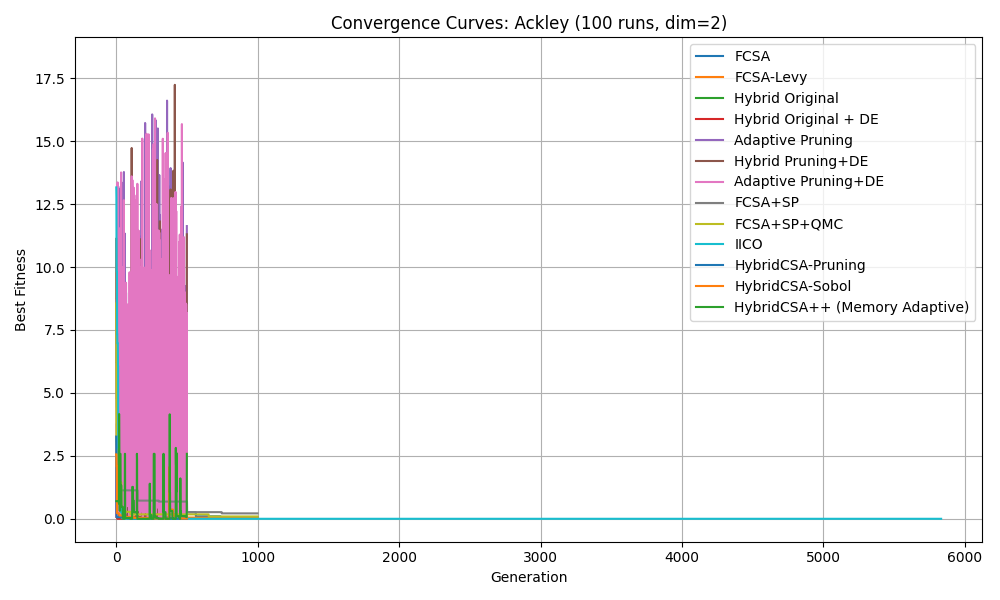
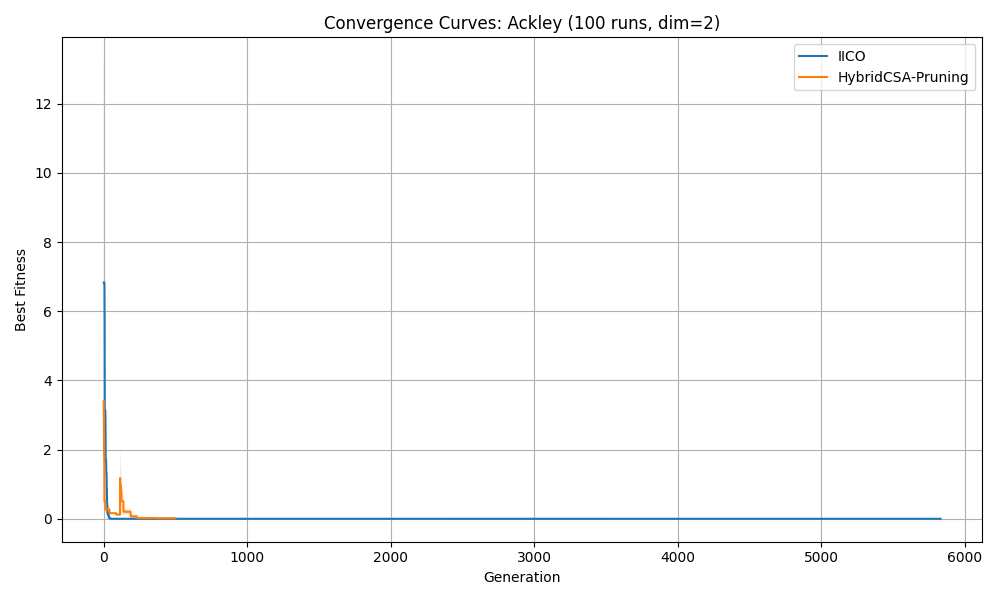
ready for expirement 2

diff --git a/codes/run_all_fcsa.py b/codes/run_all_fcsa.py
@@ -9,15 +9,15 @@ from fscsa_sp_qmc import FCSASPQMC
 from fcsa_levy import fcsa_hybrid_levy
 from hybrid_csa_chaos_sobol_δx_memory_adaptive_pruning import HybridCSAPlus
 # Algorithm runners: (name, runner function)
-def run_fcsa_levy(obj, bounds):
-    x_best, f_best, info = fcsa_hybrid_levy(obj, bounds)
+def run_fcsa_levy(obj, bounds, seed=None):
+    x_best, f_best, info = fcsa_hybrid_levy(obj, bounds, seed=seed)
     if 'history' in info:
         return np.array(info['history'])
     else:
         return np.array([f_best])
 
-def run_hybrid_memory_adaptive(obj, bounds):
-    opt = HybridCSAPlus(obj, bounds)
+def run_hybrid_memory_adaptive(obj, bounds, seed=None):
+    opt = HybridCSAPlus(obj, bounds, seed=seed)
     x_best, f_best, info = opt.minimize()
     # info['history'] may be a list of (fitness, x), so extract fitness if needed
     hist = info.get('history', [f_best])
@@ -51,8 +51,8 @@ benchmarks = [
 ]
 
 # Algorithm runners: (name, runner function)
-def run_fcsa(obj, bounds):
-    opt = FCSA(obj, bounds)
+def run_fcsa(obj, bounds, seed=None):
+    opt = FCSA(obj, bounds, seed=seed)
     x_best, f_best, info = opt.optimize()
     # If info['history'] is available, return it for plotting, else just f_best
     if 'history' in info:
@@ -60,81 +60,81 @@ def run_fcsa(obj, bounds):
     else:
         return np.array([f_best])
 
-def run_fcsa_sp(obj, bounds):
-    opt = FCSASP(obj, bounds)
+def run_fcsa_sp(obj, bounds, seed=None):
+    opt = FCSASP(obj, bounds, seed=seed)
     x_best, f_best, info = opt.optimize()
     if 'history' in info:
         return np.array(info['history'])
     else:
         return np.array([f_best])
 
-def run_fcsa_sp_qmc(obj, bounds):
-    opt = FCSASPQMC(obj, bounds)
+def run_fcsa_sp_qmc(obj, bounds, seed=None):
+    opt = FCSASPQMC(obj, bounds, seed=seed)
     x_best, f_best, info = opt.optimize()
     if 'history' in info:
         return np.array(info['history'])
     else:
         return np.array([f_best])
 
-def run_hybrid_pruning_adaptive(obj, bounds):
-    opt = HybridCSA_adaptive(obj, bounds)
+def run_hybrid_pruning_adaptive(obj, bounds, seed=None):
+    opt = HybridCSA_adaptive(obj, bounds, seed=seed)
     x_best, f_best, info = opt.minimize()
     if 'history' in info:
         return np.array(info['history'])
     else:
         return np.array([f_best])
 
-def run_hybrid_pruning_de_version(obj, bounds):
-    opt = HybridCSA_pruning_de_version(obj, bounds)
+def run_hybrid_pruning_de_version(obj, bounds, seed=None):
+    opt = HybridCSA_pruning_de_version(obj, bounds, seed=seed)
     x_best, f_best, info = opt.minimize()
     if 'history' in info:
         return np.array(info['history'])
     else:
         return np.array([f_best])
 
-def run_hybrid_pruning_de_version_adaptive(obj, bounds):
-    opt = HybridCSA_pruning_de_version_adaptive(obj, bounds)
+def run_hybrid_pruning_de_version_adaptive(obj, bounds, seed=None):
+    opt = HybridCSA_pruning_de_version_adaptive(obj, bounds, seed=seed)
     x_best, f_best, info = opt.minimize()
     if 'history' in info:
         return np.array(info['history'])
     else:
         return np.array([f_best])
 
-def run_hybrid_original_de(obj, bounds):
-    opt = HybridCSAOriginal_de(obj, bounds)
+def run_hybrid_original_de(obj, bounds, seed=None):
+    opt = HybridCSAOriginal_de(obj, bounds, seed=seed)
     x_best, f_best, info = opt.minimize()
     if 'history' in info:
         return np.array(info['history'])
     else:
         return np.array([f_best])
 
-def run_iico(obj, bounds, dim, max_evals, pop_size, bench_func=None):
+def run_iico(obj, bounds, dim, max_evals, pop_size, bench_func=None, seed=None):
     def iico_obj(x):
         return obj(np.array(x))
     def iico_fun(x):
         y, lb, ub = bench_func(x)
         return y, lb, ub
-    best_fitness_list, gbest, info = IICO_func(iico_fun, max_evals, pop_size, dim)
+    best_fitness_list, gbest, info = IICO_func(iico_fun, max_evals, pop_size, dim, seed=seed)
     return np.array(info['history'])
 
-def run_hybrid_pruning(obj, bounds):
-    opt = HybridCSA_pruning(obj, bounds)
+def run_hybrid_pruning(obj, bounds, seed=None):
+    opt = HybridCSA_pruning(obj, bounds, seed=seed)
     x_best, f_best, info = opt.minimize()
     if 'history' in info:
         return np.array(info['history'])
     else:
         return np.array([f_best])
 
-def run_hybrid_pruning_sobol(obj, bounds):
-    opt = HybridCSA_sobol(obj, bounds)
+def run_hybrid_pruning_sobol(obj, bounds, seed=None):
+    opt = HybridCSA_sobol(obj, bounds, seed=seed)
     x_best, f_best, info = opt.minimize()
     if 'history' in info:
         return np.array(info['history'])
     else:
         return np.array([f_best])
 
-def run_hybrid_original(obj, bounds):
-    opt = HybridCSAOriginal(obj, bounds)
+def run_hybrid_original(obj, bounds, seed=None):
+    opt = HybridCSAOriginal(obj, bounds, seed=seed)
     x_best, f_best, info = opt.minimize()
     if 'history' in info:
         return np.array(info['history'])
@@ -142,19 +142,19 @@ def run_hybrid_original(obj, bounds):
         return np.array([f_best])
 
 algorithms = [
-    ("FCSA", run_fcsa),
-    ("FCSA-Levy", run_fcsa_levy),
-    ("Hybrid Original", run_hybrid_original),
-    ("Hybrid Original + DE", run_hybrid_original_de),
-    ("Adaptive Pruning", run_hybrid_pruning_adaptive),
-    ("Hybrid Pruning+DE", run_hybrid_pruning_de_version),
-    ("Adaptive Pruning+DE", run_hybrid_pruning_de_version_adaptive),
-    ("FCSA+SP", run_fcsa_sp),
-    ("FCSA+SP+QMC", run_fcsa_sp_qmc),
+    # ("FCSA", run_fcsa),
+    # ("FCSA-Levy", run_fcsa_levy),
+    # ("Hybrid Original", run_hybrid_original),
+    # ("Hybrid Original + DE", run_hybrid_original_de),
+    # ("Adaptive Pruning", run_hybrid_pruning_adaptive),
+    # ("Hybrid Pruning+DE", run_hybrid_pruning_de_version),
+    # ("Adaptive Pruning+DE", run_hybrid_pruning_de_version_adaptive),
+    # ("FCSA+SP", run_fcsa_sp),
+    # ("FCSA+SP+QMC", run_fcsa_sp_qmc),
     ("IICO", run_iico),
     ("HybridCSA-Pruning", run_hybrid_pruning),
-    ("HybridCSA-Sobol", run_hybrid_pruning_sobol),
-    ("HybridCSA++ (Memory Adaptive)", run_hybrid_memory_adaptive),
+    # ("HybridCSA-Sobol", run_hybrid_pruning_sobol),
+    # ("HybridCSA++ (Memory Adaptive)", run_hybrid_memory_adaptive),
 ]
 
 
@@ -178,7 +178,7 @@ def run_all_dims():
     import matplotlib.pyplot as plt
     import os
     dims = [2, 50, 100]
-    n_runs = 100
+    n_runs = 2
     for dim in dims:
         # Folder and log for this dimension
         fig_dir = os.path.join(os.path.dirname(__file__), f'../fig/dim_{dim}')
@@ -206,9 +206,9 @@ def run_all_dims():
                         if alg_name == "IICO":
                             max_evals = 350_000
                             pop_size = 60
-                            history = runner(obj, bounds, bench_dim, max_evals, pop_size, func)
+                            history = runner(obj, bounds, bench_dim, max_evals, pop_size, func, seed=run)
                         else:
-                            history = runner(obj, bounds)
+                            history = runner(obj, bounds, seed=run)
                         histories.append(np.array(history))
                     histories = pad_histories(histories)
                     mean_curve = np.mean(histories, axis=0)

diff --git a/codes/IICO.py b/codes/IICO.py
@@ -17,7 +17,12 @@ from openpyxl import load_workbook
 from benchmark import get_function_by_name
 
 
-def iico(fun, max_FEs, n, dim, max_stagnation=3):
+def iico(fun, max_FEs, n, dim, max_stagnation=3, seed=None):
+    if seed is not None:
+        import random
+        import numpy as np
+        random.seed(seed)
+        np.random.seed(seed)
     _, lb, ub = fun([random.random() for _ in range(dim)])
 
     pop = [[0. for _ in range(dim)] for _ in range(n)]

diff --git a/codes/hybrid_csa_chaos_sobol_δx_memory_adaptive_pruning.py b/codes/hybrid_csa_chaos_sobol_δx_memory_adaptive_pruning.py
@@ -98,7 +98,7 @@ class HybridCSAPlus:
         N: int = 60,
         n_select: int = 15,
         n_clones: int = 5,
-        max_gens: int = 500,
+        max_gens: int = 1000,
         seed: Optional[int] = 42,
         # mutation / schedule
         sigma_initial: float = 0.5,
